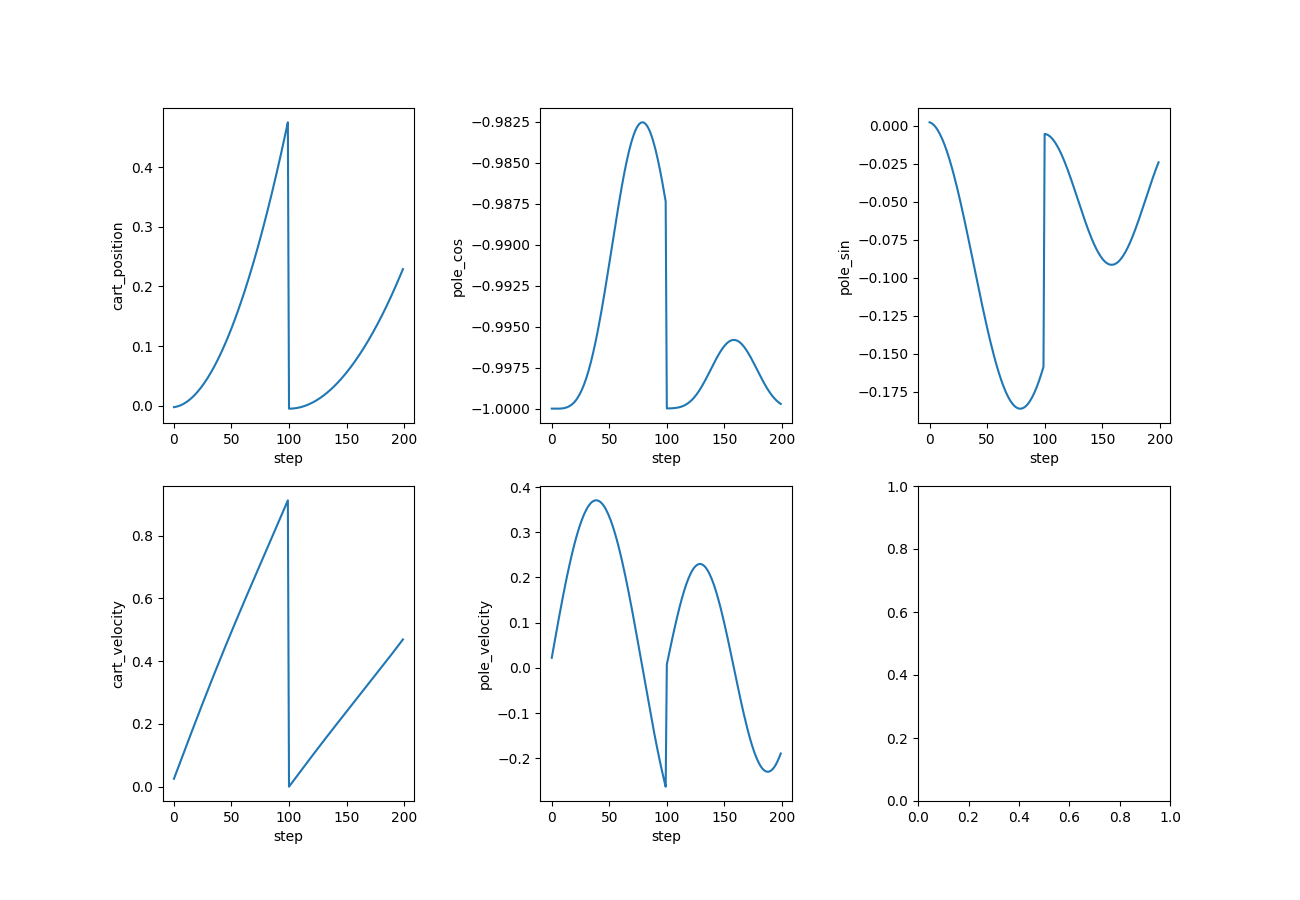
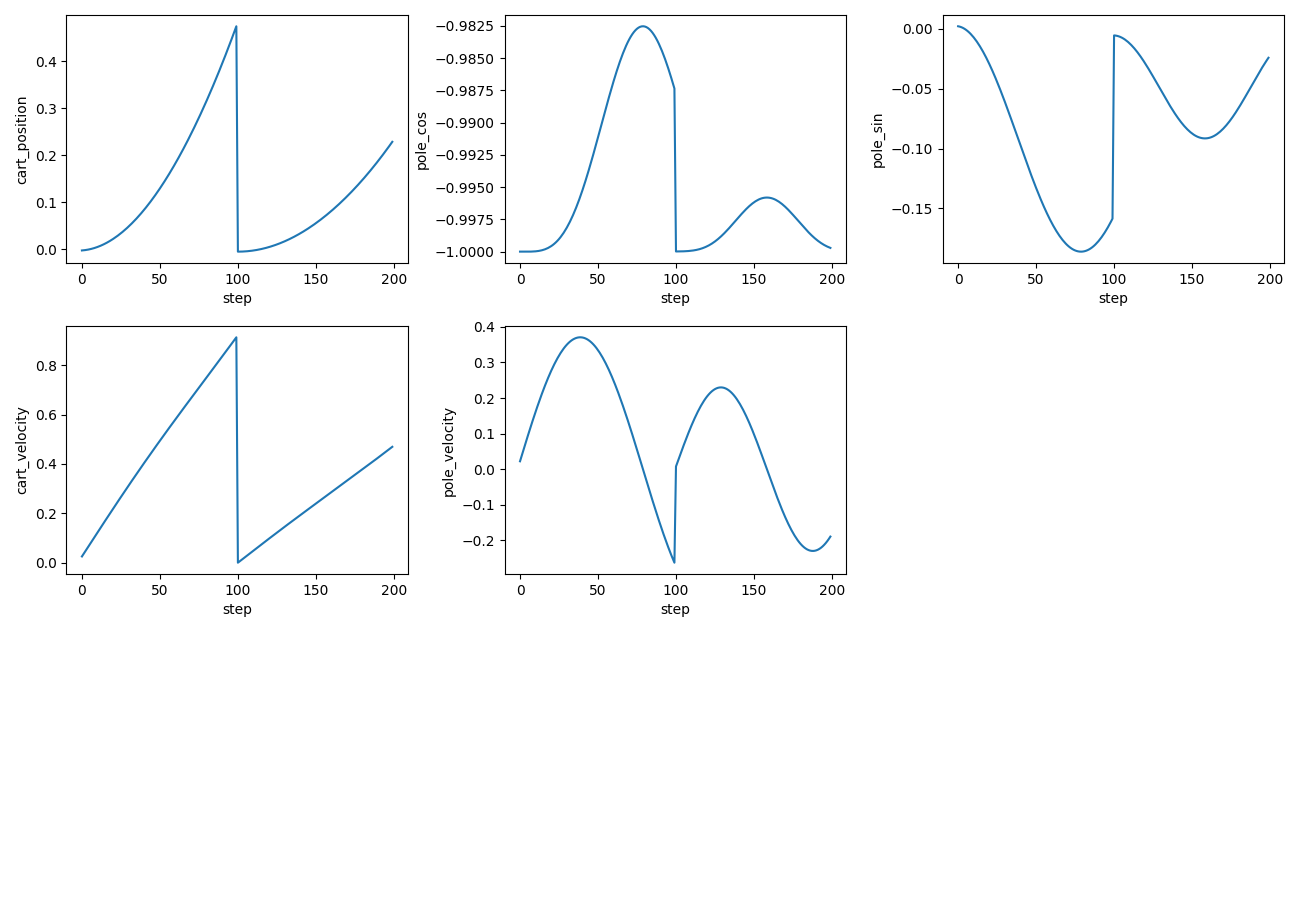
switching to samir's model 1

diff --git a/examples/cartpole_hacking.py b/examples/cartpole_hacking.py
@@ -15,7 +15,6 @@ with doc:
 
     import matplotlib.pyplot as plt
 
-
 with doc:
     env = gym.make('lcs:Paramcartpole-swingup-v1')
     env.reset()
@@ -47,7 +46,7 @@ with doc:
     doc.print(env.unwrapped.env.physics.named.model.body_mass)
 
 doc @ "## Run simulation"
-with doc:
+with doc, doc.table().figure_row() as r:
     position_history = []
     for _ in range(100):
         action = np.full(env.action_space.shape, 0.1)
@@ -55,12 +54,12 @@ with doc:
         position_history.append(obs)
 
     img = env.render('rgb_array', camera_id=1)
-    doc.figure(img, f"{Path(__file__).stem}/cartpole_0.png", zoom="400%", title="Cartpole", caption="")
+    r.figure(img, f"{Path(__file__).stem}/cartpole_0.png", zoom="400%", title="Cartpole", caption="")
 
     env.reset(pole_length=0.5, cart_mass=2.0)
 
     img = env.render('rgb_array', camera_id=1)
-    doc.figure(img, f"{Path(__file__).stem}/cartpole_1.png", zoom="400%", title="Cartpole", caption="")
+    r.figure(img, f"{Path(__file__).stem}/cartpole_1.png", zoom="400%", title="Cartpole", caption="")
 
     for _ in range(100):
         action = np.full(env.action_space.shape, 0.1)
@@ -69,18 +68,20 @@ with doc:
 
     position_history = np.stack(position_history)
 
-    fig, axes = plt.subplots(nrows=2, ncols=3, figsize=(13, 9))
+    # fig, axes = plt.subplots(nrows=2, ncols=3, figsize=(13, 9))
+
+    plt.figure(figsize=[13, 9])
 
     pos_names = ['cart_position', 'pole_cos', 'pole_sin', 'cart_velocity', 'pole_velocity']
     for i, pos_name in enumerate(pos_names):
-        plt.sca(axes[i // 3][i % 3])
+        # plt.sca(axes[i // 3][i % 3])
+        plt.subplot(3, 3, i + 1)
         plt.plot(np.arange(position_history.shape[0]), position_history[:, i])
         plt.xlabel('step')
         plt.ylabel(pos_name)
-    plt.subplots_adjust(wspace=0.5)
+    plt.tight_layout()
+    # plt.subplots_adjust(wspace=0.5)
 
-    doc.savefig(f"{Path(__file__).stem}/position_history.png")
+    r.savefig(f"{Path(__file__).stem}/position_history.png", title="position_history")
 
-
-with doc:
-    env.close()
+env.close()

diff --git a/examples/cartpole_hacking.md b/examples/cartpole_hacking.md
@@ -33,7 +33,6 @@ with tempfile.TemporaryDirectory() as tmp:
   <option timestep="0.01" integrator="RK4">
     <flag contact="disable" energy="enable"/>
   </option>
-  <size njmax="500" nconmax="100"/>
   <visual>
     <quality shadowsize="2048"/>
     <headlight ambient="0.4 0.4 0.4" diffuse="0.8 0.8 0.8" specular="0.1 0.1 0.1"/>
@@ -63,17 +62,17 @@ with tempfile.TemporaryDirectory() as tmp:
     <camera name="fixed" pos="0 -4 1" quat="0.707107 0.707107 0 0"/>
     <camera name="lookatcart" target="cart" pos="0 -2 2" mode="targetbody"/>
     <light name="light" pos="0 0 6" dir="0 0 -1"/>
-    <body name="cart" pos="0 0 1">
+    <body name="cart" pos="0 0 1" gravcomp="0">
       <joint name="slider" pos="0 0 0" axis="1 0 0" type="slide" solreflimit="0.08 1" range="-1.8 1.8" damping="0.0005"/>
       <geom name="cart" size="0.2 0.15 0.1" type="box" mass="1" material="self"/>
-      <body name="pole_1" pos="0 0 0">
+      <body name="pole_1" pos="0 0 0" gravcomp="0">
         <joint name="hinge_1" pos="0 0 0" axis="0 1 0" damping="2e-06"/>
         <geom name="pole_1" size="0.045 0.5" pos="0 0 0.5" quat="0 1 0 0" type="capsule" mass="0.1" material="self"/>
       </body>
     </body>
   </worldbody>
   <actuator>
-    <general name="slide" joint="slider" ctrlrange="-1 1" gear="10 0 0 0 0 0"/>
+    <general name="slide" joint="slider" ctrlrange="-1 1" gear="10 0 0 0 0 0" actdim="0"/>
   </actuator>
 </mujoco>
 
@@ -121,12 +120,12 @@ for _ in range(100):
     position_history.append(obs)
 
 img = env.render('rgb_array', camera_id=1)
-doc.figure(img, f"{Path(__file__).stem}/cartpole_0.png", zoom="400%", title="Cartpole", caption="")
+r.figure(img, f"{Path(__file__).stem}/cartpole_0.png", zoom="400%", title="Cartpole", caption="")
 
 env.reset(pole_length=0.5, cart_mass=2.0)
 
 img = env.render('rgb_array', camera_id=1)
-doc.figure(img, f"{Path(__file__).stem}/cartpole_1.png", zoom="400%", title="Cartpole", caption="")
+r.figure(img, f"{Path(__file__).stem}/cartpole_1.png", zoom="400%", title="Cartpole", caption="")
 
 for _ in range(100):
     action = np.full(env.action_space.shape, 0.1)
@@ -135,24 +134,24 @@ for _ in range(100):
 
 position_history = np.stack(position_history)
 
-fig, axes = plt.subplots(nrows=2, ncols=3, figsize=(13, 9))
+# fig, axes = plt.subplots(nrows=2, ncols=3, figsize=(13, 9))
+
+plt.figure(figsize=[13, 9])
 
 pos_names = ['cart_position', 'pole_cos', 'pole_sin', 'cart_velocity', 'pole_velocity']
 for i, pos_name in enumerate(pos_names):
-    plt.sca(axes[i // 3][i % 3])
+    # plt.sca(axes[i // 3][i % 3])
+    plt.subplot(3, 3, i + 1)
     plt.plot(np.arange(position_history.shape[0]), position_history[:, i])
     plt.xlabel('step')
     plt.ylabel(pos_name)
-plt.subplots_adjust(wspace=0.5)
+plt.tight_layout()
+# plt.subplots_adjust(wspace=0.5)
 
-doc.savefig(f"{Path(__file__).stem}/position_history.png")
+r.savefig(f"{Path(__file__).stem}/position_history.png", title="position_history")
 ```
 
-<table><tr><th>Cartpole</th></tr><tr><td><img style="align-self:center; zoom:400%;" src="cartpole_hacking/cartpole_0.png" /></td></tr></table>
-
-<table><tr><th>Cartpole</th></tr><tr><td><img style="align-self:center; zoom:400%;" src="cartpole_hacking/cartpole_1.png" /></td></tr></table>
-
-<img style="align-self:center;" src="cartpole_hacking/position_history.png" image="None" styles="{'margin': '0.5em'}" width="None" height="None"/>
-```python
-env.close()
-```
+| **Cartpole** | **Cartpole** | **position_history** |
+|:------------:|:------------:|:--------------------:|
+| <img style="align-self:center; zoom:400%;" src="cartpole_hacking/cartpole_0.png" /> | <img style="align-self:center; zoom:400%;" src="cartpole_hacking/cartpole_1.png" /> | <img style="align-self:center;" src="cartpole_hacking/position_history.png" image="None" styles="{'margin': '0.5em'}" width="None" height="None"/> |
+|  |  |   |
